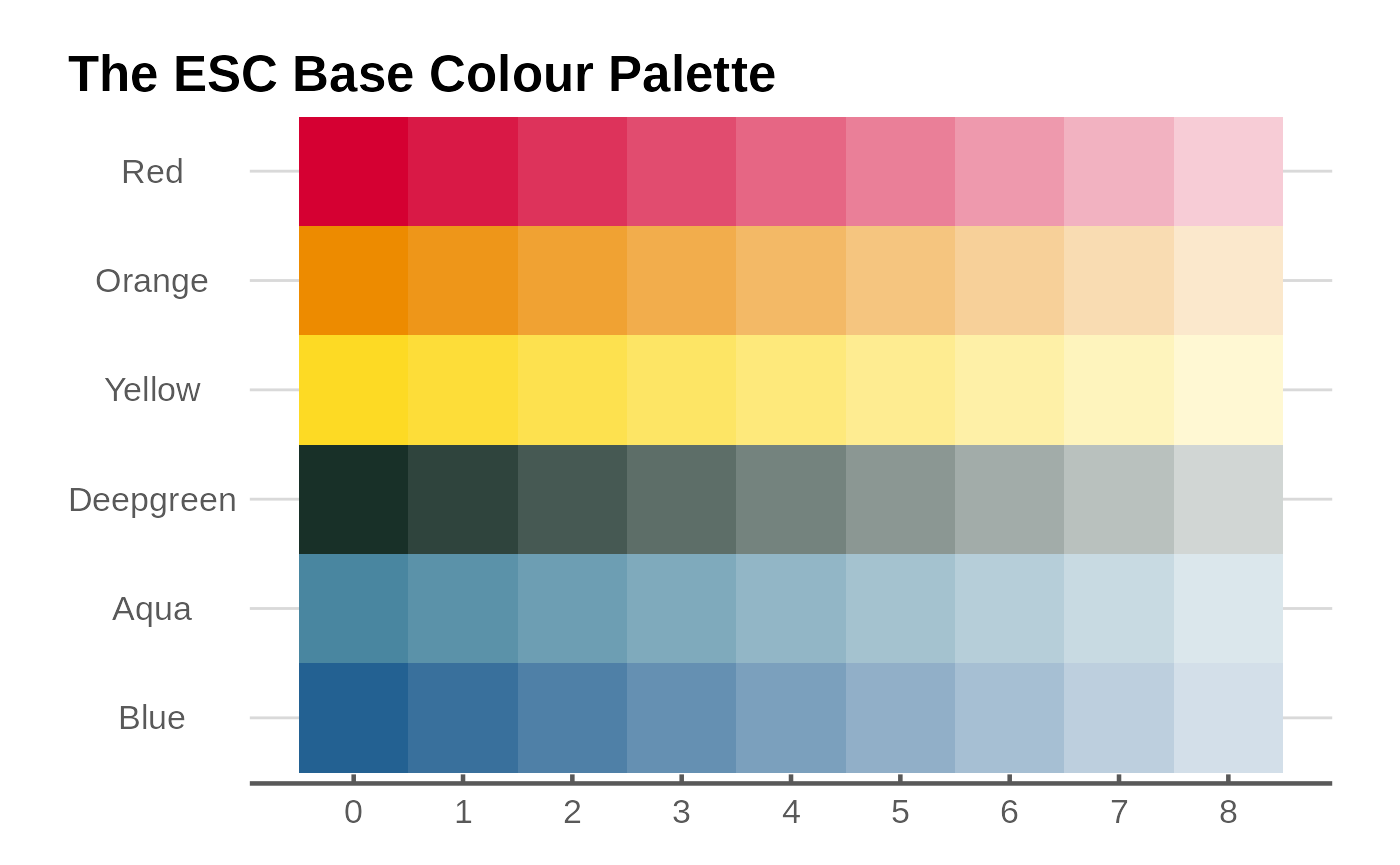
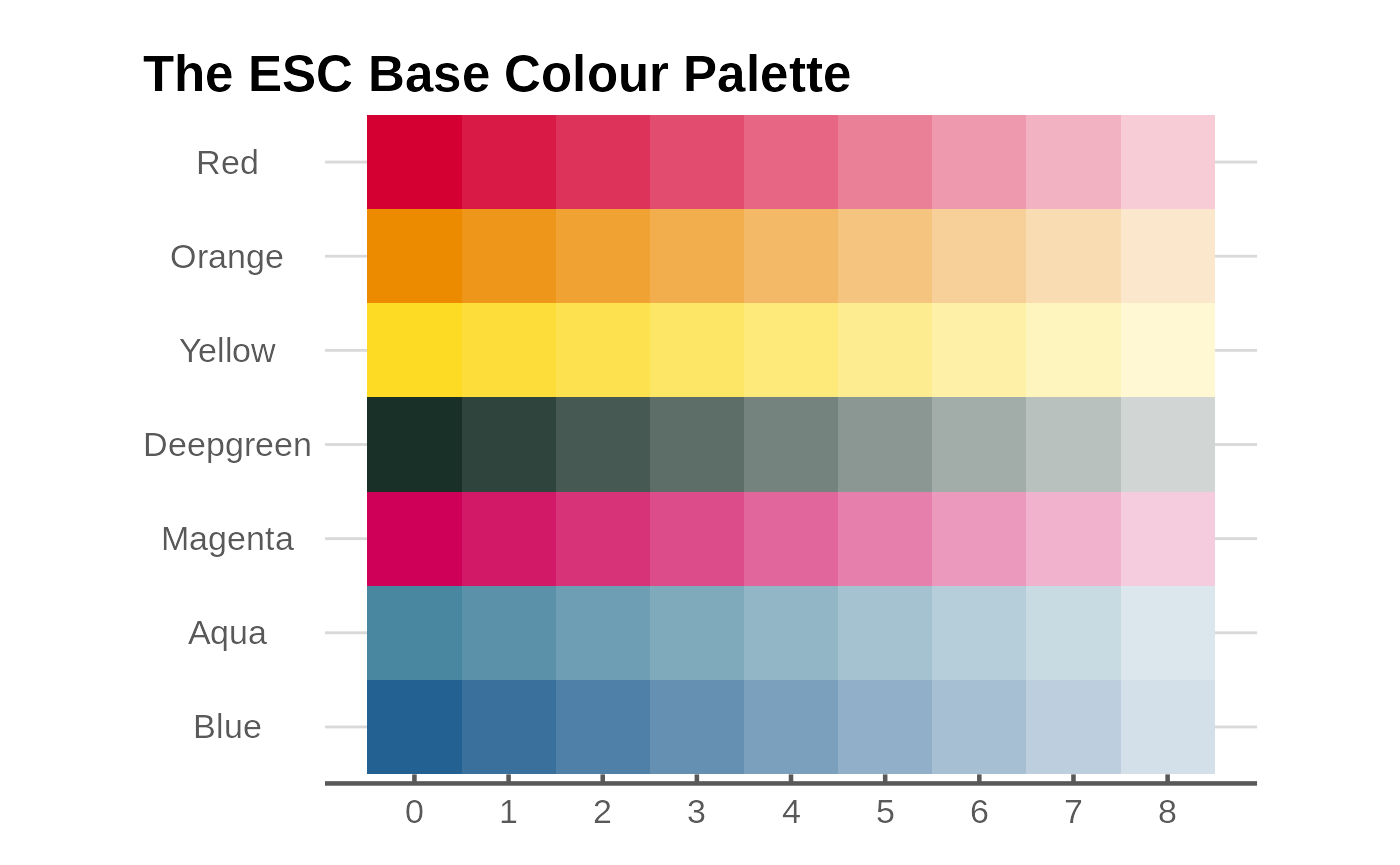
Deploying to gh-pages from @ ESC-Economics/esctheme@47aa8498b35ab4df1bb31723964c0a28c4effb12 🚀

diff --git a/articles/esctheme.html b/articles/esctheme.html
@@ -101,8 +101,9 @@ comprehensive information on the full customisation of the package.</p>
 </h2>
 <p>This is the Essential Services Commission colour palette.</p>
 <p>All the colours are package objects that can be selected by using the
-appropriate name. For example, <code>e61_tealdark3</code> selects the
-colour ‘Teal dark’ with the shade in column ‘3’.</p>
+appropriate name. For example, <code>esc_magenta</code> selects the
+colour ‘Magenta’ with nine shades starting from the base shade in column
+‘0’.</p>
 <p><img src="esctheme_files/figure-html/theme61-colours-1.png" width="60%" style="display: block; margin: auto;"></p>
 </div>
 <div class="section level2">
